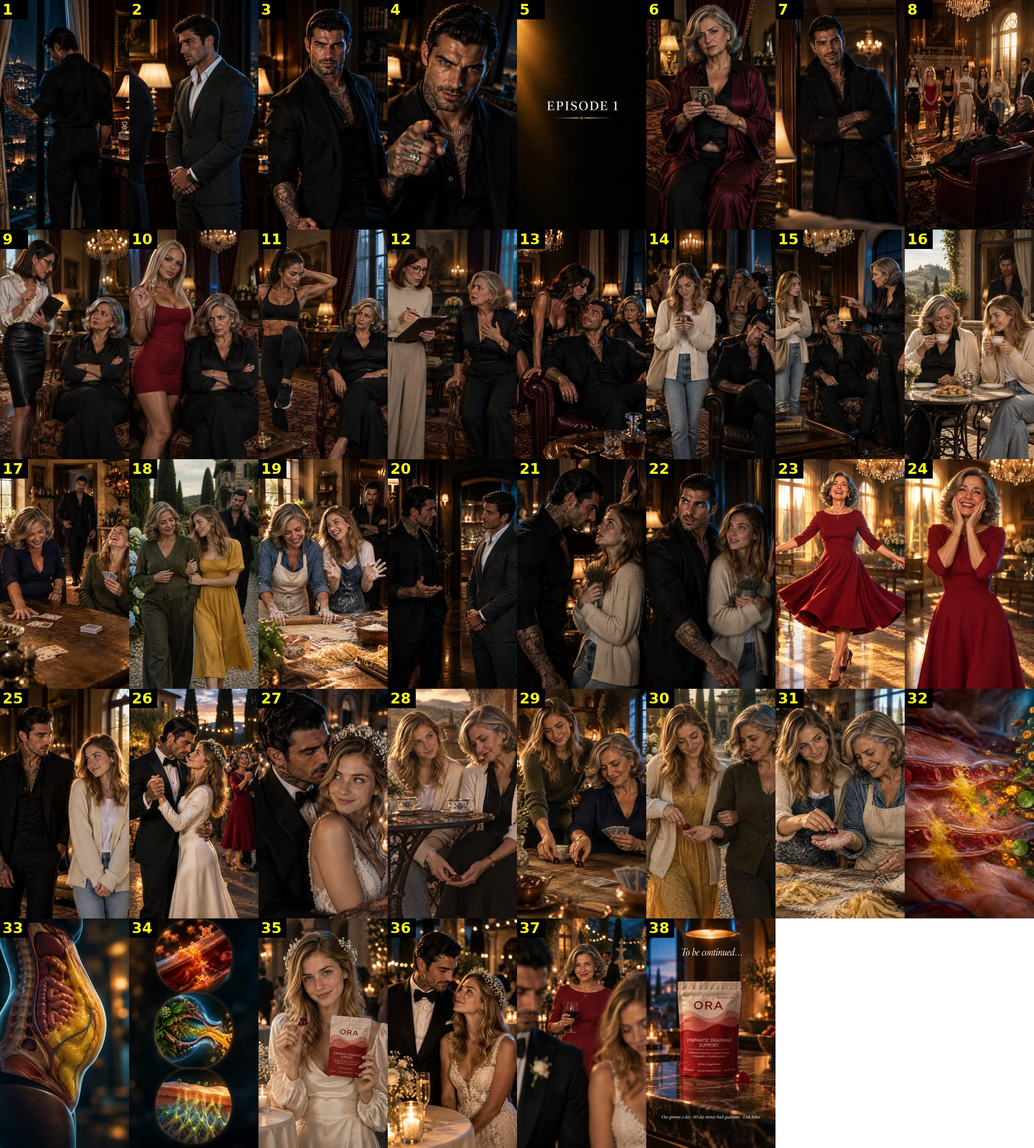
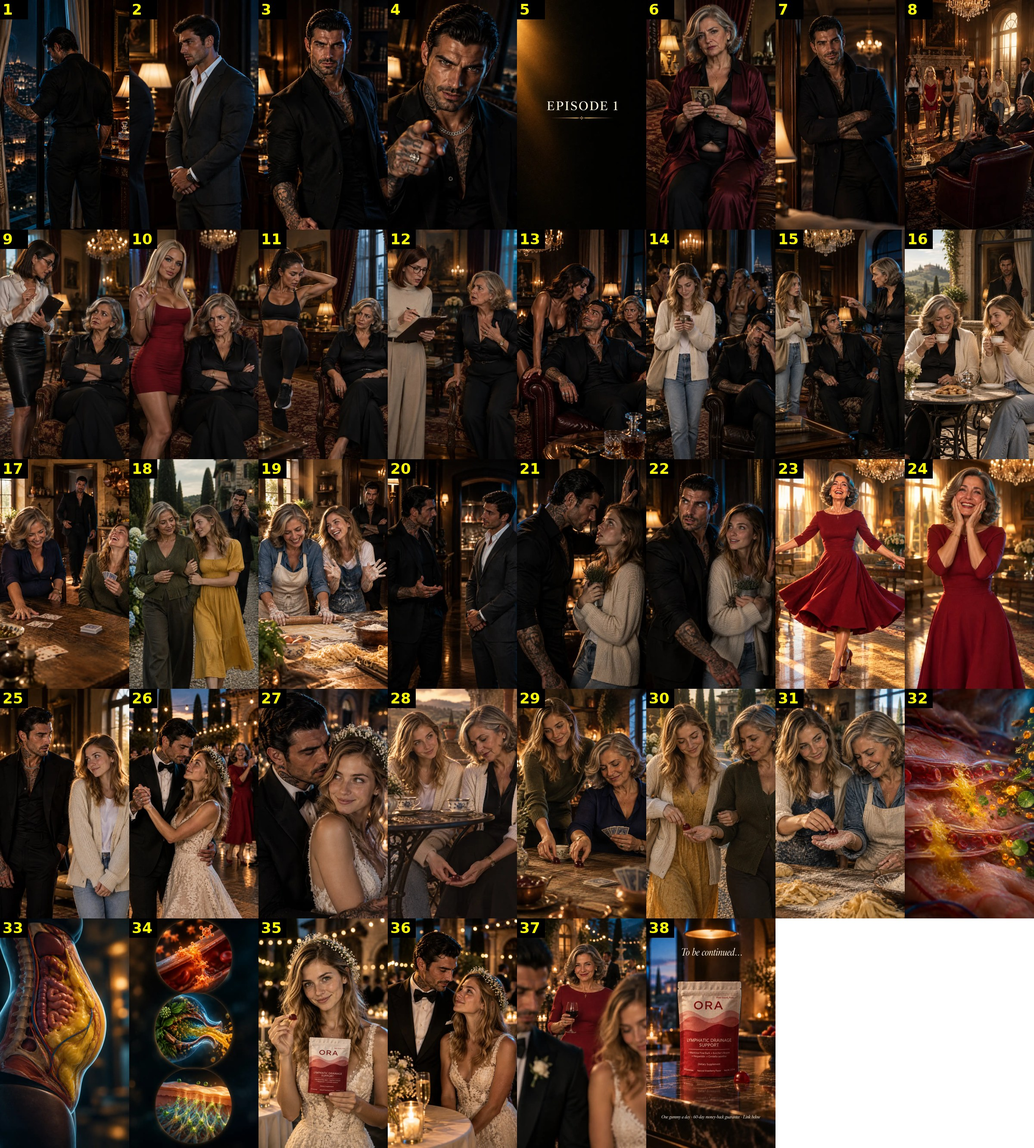
ORA Dante & Emily: redo frames 26, 35 (wedding dress matches 36)
Claude-Session: https://claude.ai/code/session_01B91YnQnevLKqPhwBUBVUWL

Changed region(s): [[0.25, 0.7786, 0.375, 1.0], [0.125, 0.5917, 0.25, 0.8098]]

diff --git a/projects/ora-dante-emily/shots.md b/projects/ora-dante-emily/shots.md
@@ -27,7 +27,7 @@
 | 23 | 0a00b1d7-d030-44ea-9df8-1180b64a528e |
 | 24 | 7a84c594-22f4-4fda-b920-1fb94242b063 |
 | 25 | 3fe49743-77b4-4bfc-8540-2a85e50d09a0 |
-| 26 | c39e2766-2af7-4156-a2c3-6948f72fb62b |
+| 26 | 95ad3c81-f48c-4b83-8749-10aaec6cbd1e (redo: dress matched to 36) |
 | 27 | 4592eda6-b8b8-4958-a148-de6bcba1fa2d |
 | 28 | a29565a2-f01b-4b5f-ac49-1d05c9cdc418 |
 | 29 | 83561228-aa5b-4b48-b3e5-39de57484816 |
@@ -36,7 +36,7 @@
 | 32 | afa76a56-4fee-4005-bb1d-1241709bc69f |
 | 33 | 0b9178af-820e-49fb-ad43-4a144c22563a |
 | 34 | d2468e52-2225-4c0b-8c32-a2cdb003b16f |
-| 35 | 6f1f1bb3-6620-46ba-abeb-2273ad724905 |
+| 35 | 6a76be39-0055-4533-83d2-8e198d2b2f43 (redo: dress matched to 36) |
 | 36 | 2b33b25e-e6a5-4f4e-b5cd-f60762eeb16f |
 | 37 | 9e3a4271-6d8b-43f0-afe4-8eba9ae310c6 |
 | 38 | d4ac14a2-8278-4752-9f5d-a8f9538362d5 |
